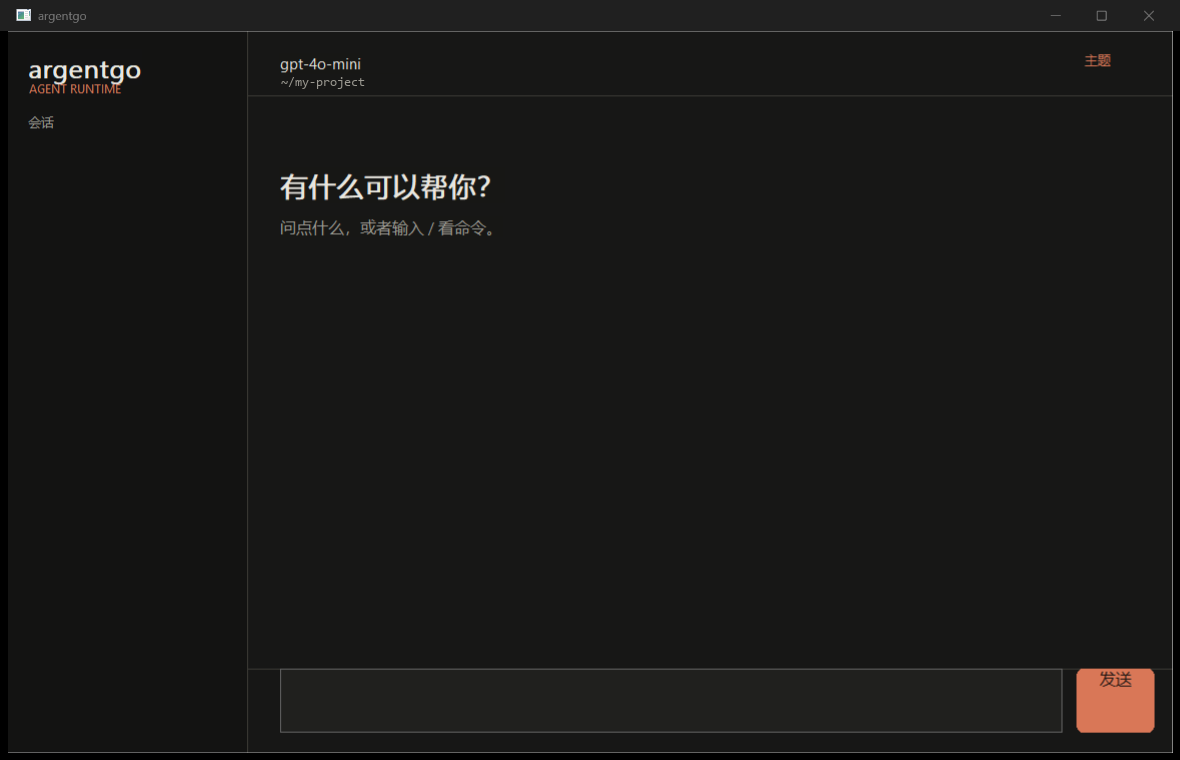
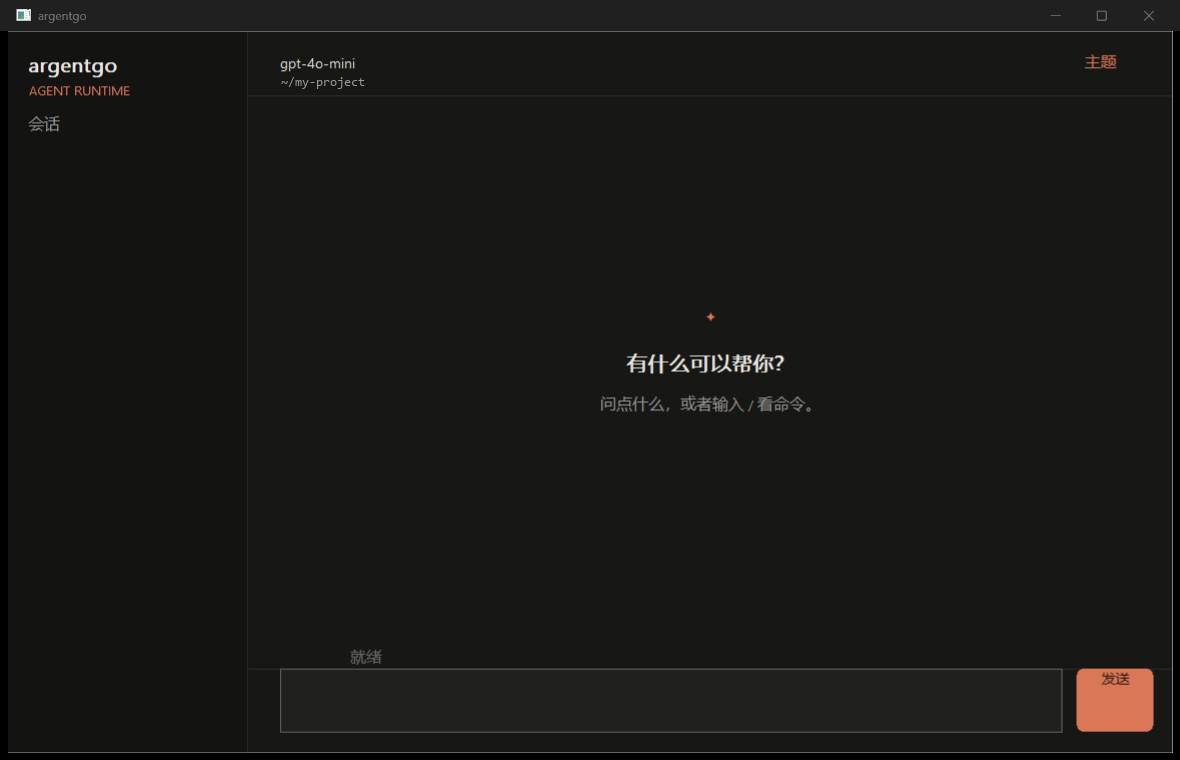
gui: fix paint-loop hang and refresh screenshot

diff --git a/internal/nativegui/paint_windows.go b/internal/nativegui/paint_windows.go
@@ -202,8 +202,14 @@ func wndProc(hwnd uintptr, msg uint32, wparam, lparam uintptr) uintptr {
 		if wparam == animationTimerID && s != nil {
 			s.mu.Lock()
 			s.tick++
+			animate := s.busy || s.hoverSend
 			s.mu.Unlock()
-			invalidate(hwnd)
+			// Only repaint when something visible is actually animated.
+			// Invalidating unconditionally keeps the window permanently in
+			// paint state (and makes PrintWindow/screen capture hang).
+			if animate {
+				invalidate(hwnd)
+			}
 		}
 		return 0
 
@@ -427,7 +433,9 @@ func widthOf(hwnd uintptr) int {
 }
 
 func paint(hdc uintptr, hwnd uintptr) {
-	applyTheme(current.dark)
+	// Brushes are created in applyTheme (WM_CREATE / theme toggle) and reused
+	// here. Recreating them on every frame would delete GDI objects that the
+	// child EDIT control may still hold from WM_CTLCOLOREDIT.
 	var rc rect
 	pGetClientRect.Call(hwnd, uintptr(unsafe.Pointer(&rc)))
 	w, h := int(rc.Right), int(rc.Bottom)
@@ -552,11 +560,9 @@ func paint(hdc uintptr, hwnd uintptr) {
 	}
 	pSelectObject.Call(hdc, fontSmall)
 	if busy {
-		pSetTextColor.Call(hdc, uintptr(clrAccent))
-		textAt(hdc, spinnerFrame(tick)+" "+status, colX, bottom+2, uint32(colW))
+		textBox(hdc, spinnerFrame(tick)+" "+status, colX, bottom-16, colW, 16, fontSmall, clrAccent, 0)
 	} else if status != "" {
-		pSetTextColor.Call(hdc, uintptr(clrDim))
-		textAt(hdc, status, colX, bottom+2, uint32(colW))
+		textBox(hdc, status, colX, bottom-16, colW, 16, fontSmall, clrFaint, 0)
 	}
 
 	// Composer surface.
